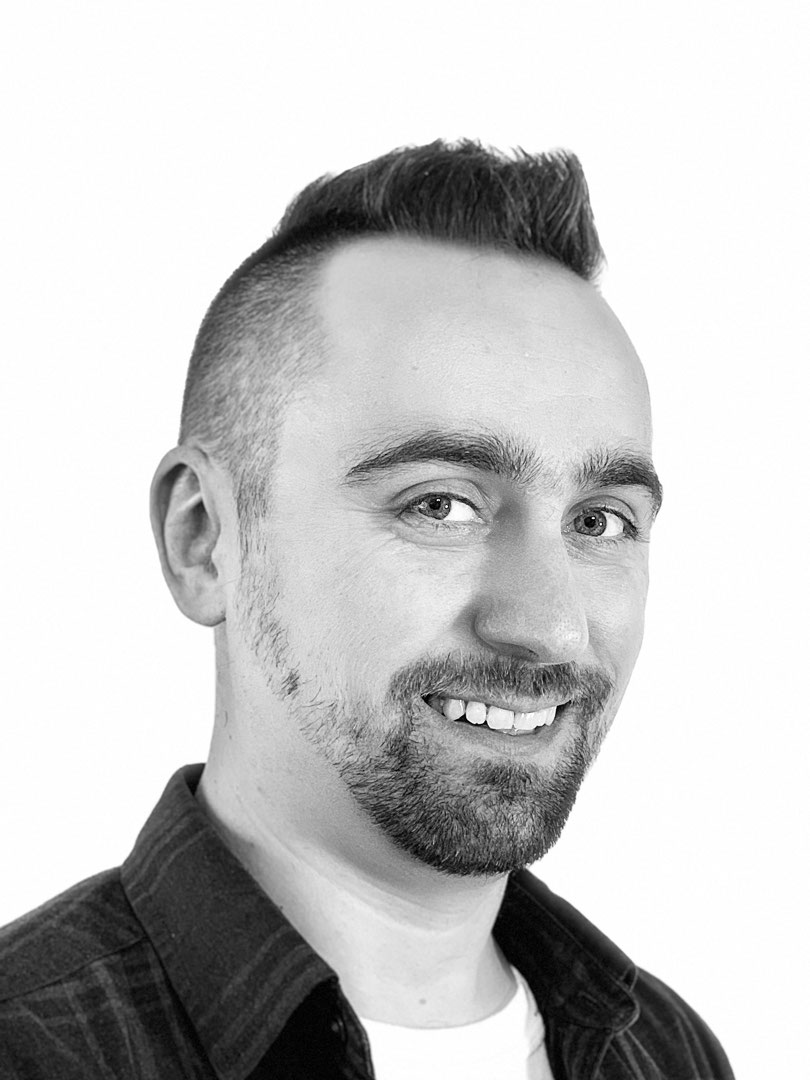
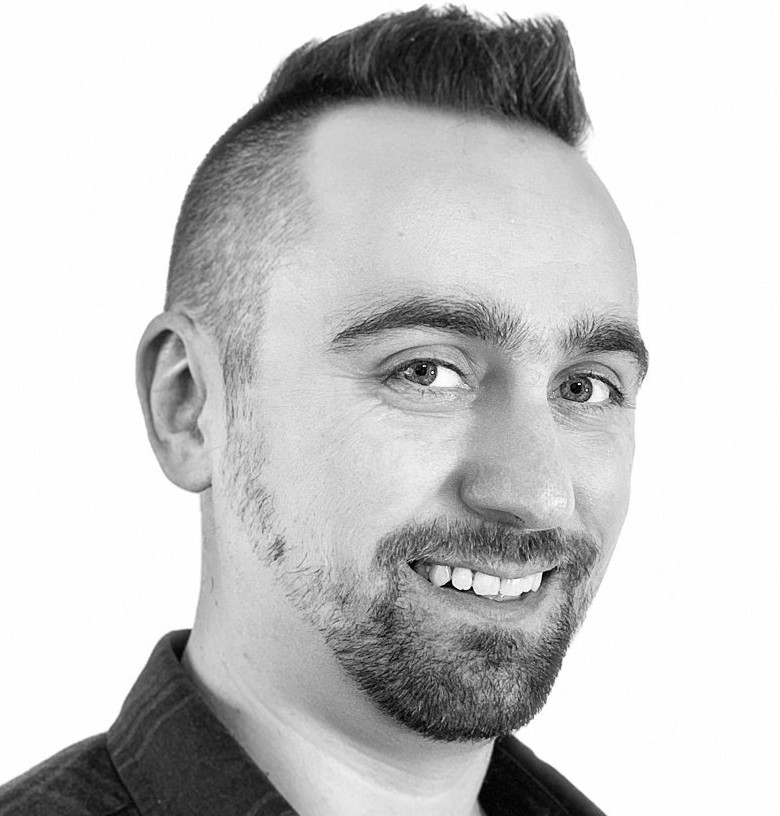
Add second keynote speaker

diff --git a/src/sections/speakers.tsx b/src/sections/speakers.tsx
@@ -4,19 +4,23 @@ import { Container, Heading, Paragraph } from "theme-ui";
 
 const speakersData = [
   { name: "Łukasz Langa", affiliation: "CPython Developer in Residence, Python 3.8 and 3.9 release manager", image: "/speakers/lukasz.jpeg", index: 1 },
+  { name: "Kateřina Lesch", affiliation: "Senior Manager in Data Analytics and Artificial Intelligence at Deloitte", image: "/speakers/katerina1.jpg", index: 2 },
 ];
 
 export const SpeakersSection = () => {
   return (
     <Container id="venue" variant="smallContainer">
       <Heading>Keynote speakers</Heading>
-      {speakersData.map((speaker, index) => (
-        <Speaker
-          name={speaker.name}
-          affiliation={speaker.affiliation}
-          image={speaker.image}
-        />
-      ))}
+      <div style={{ display: 'flex', justifyContent: 'space-around' }}>
+        {speakersData.map((speaker) => (
+          <Speaker
+            key={speaker.index}
+            name={speaker.name}
+            affiliation={speaker.affiliation}
+            image={speaker.image}
+          />
+        ))}
+      </div>
     </Container >
 
   );

diff --git a/src/sections/speaker.tsx b/src/sections/speaker.tsx
@@ -3,7 +3,7 @@ import React from 'react';
 const Speaker = ({ name, affiliation, image }) => {
   return (
     <div className="speaker">
-      <img src={image} alt={name} width="50%" height="auto" objectFit="contain" />
+      <img src={image} alt={name} width="50%" height="auto" objectFit="contain" border-radius="80%" />
       <h3>{name}</h3>
       <p>{affiliation}</p>
     </div>
